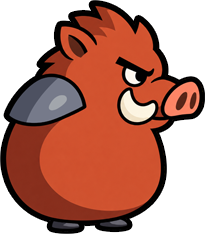
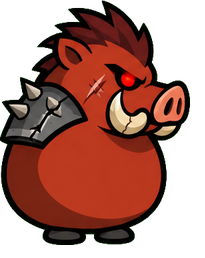
Vẽ lại 10 boss Boss Rush đáng sợ hơn theo concept
- Thân 10 boss mới (ChatGPT, giữ dáng tròn của rig + nét mảng màu): mắt sáng, nanh, sẹo, gai, vải rách
- Ghi đè đúng PNG thân cũ giữ GUID; canh theo thân cũ bằng tools/reskin/fit_boss_scary.py (khớp thân dưới + chân, nới khung đều 2 phía, cao tối đa 112%)
- Vũ khí / đạn / thanh máu không phải chỉnh; art cáo đỏ dùng chung cho DragonEnemy dungeon
- Concept so cũ/mới: tools/concept/boss_scary; prompt + ảnh gốc: ArtIncoming/_Concept/BossRush/gen_boss_scary

diff --git a/tools/concept/boss_scary/concept.html b/tools/concept/boss_scary/concept.html
@@ -1,0 +1,30 @@
+<!doctype html><html><head><meta charset="utf-8">
+<!-- Concept 10 boss Boss Rush đáng sợ hơn (giữ dáng rig + nét mảng màu). Ảnh ChatGPT: ArtIncoming/_Concept/BossRush/gen_boss_scary.
+     Chụp: tools/concept/render_concept.sh tools/concept/boss_scary/concept.html tools/concept/boss_scary/concept.png 1700 <cao> -->
+<base href="../../../2026DungeonRushUnity/Assets/_Assets/Art/">
+<style>
+@font-face{font-family:Asap;src:url(../../../2026DungeonRushUnity/Assets/_Assets/Fonts/Asap/Asap-SemiBold.ttf)}
+*{box-sizing:border-box;margin:0}
+body{background:#15141c;font-family:Asap,sans-serif;width:1700px;padding:24px;display:grid;grid-template-columns:repeat(5,1fr);gap:16px}
+.c{background:#3e3d4d;border-radius:16px;padding:14px 10px;display:flex;flex-direction:column;align-items:center;gap:8px}
+.nm{color:#fff;font-size:18px;text-align:center}
+.pair{display:flex;align-items:flex-end;gap:4px}
+.cell{display:flex;flex-direction:column;align-items:center;gap:4px}
+.cell img{height:150px;width:auto}
+.cell.new img{height:165px}
+.cell span{color:#b9b6cf;font:12px sans-serif}
+.cell.new span{color:#ffd35a}
+.arr{color:#ffd35a;font-size:26px;padding-bottom:70px}
+.ds{color:#cfcde0;font:13px sans-serif;text-align:center;line-height:1.35}
+</style></head><body>
+<div class="c"><div class="nm">#1 Dark Lich — gấu</div><div class="pair"><div class="cell"><img src="4_Characters/BossNew/BossRushDarkLich/Boss 1.png"><span>hiện tại</span></div><div class="arr">→</div><div class="cell new"><img src="../../../../ArtIncoming/_Concept/BossRush/gen_boss_scary/keyed/b01.png"><span>đề xuất</span></div></div><div class="ds">mắt đỏ rực, sẹo mắt, nanh, khăn rách</div></div>
+<div class="c"><div class="nm">#2 Black Dragon — sói nâu</div><div class="pair"><div class="cell"><img src="4_Characters/BossNew/BlackDragon/Boss 7-dragonBlack.png"><span>hiện tại</span></div><div class="arr">→</div><div class="cell new"><img src="../../../../ArtIncoming/_Concept/BossRush/gen_boss_scary/keyed/b02.png"><span>đề xuất</span></div></div><div class="ds">lông gần đen, nhe nanh, áo choàng rách</div></div>
+<div class="c"><div class="nm">#3 Green Dragon — sói xám</div><div class="pair"><div class="cell"><img src="4_Characters/BossNew/BossRushGreenDragon/Boss 8.png"><span>hiện tại</span></div><div class="arr">→</div><div class="cell new"><img src="../../../../ArtIncoming/_Concept/BossRush/gen_boss_scary/keyed/b03.png"><span>đề xuất</span></div></div><div class="ds">mắt xanh băng, áo nứt băng</div></div>
+<div class="c"><div class="nm">#4 Red Dragon — cáo đỏ</div><div class="pair"><div class="cell"><img src="4_Characters/BossNew/BossRushRedDragon/Boss 9.png"><span>hiện tại</span></div><div class="arr">→</div><div class="cell new"><img src="../../../../ArtIncoming/_Concept/BossRush/gen_boss_scary/keyed/b04.png"><span>đề xuất</span></div></div><div class="ds">cười gian, áo đỏ máu rách, lửa đuôi</div></div>
+<div class="c"><div class="nm">#5 Crimson Lich — heo rừng</div><div class="pair"><div class="cell"><img src="4_Characters/BossNew/BossRushCrimsonLich/Boss 2.png"><span>hiện tại</span></div><div class="arr">→</div><div class="cell new"><img src="../../../../ArtIncoming/_Concept/BossRush/gen_boss_scary/keyed/b05.png"><span>đề xuất</span></div></div><div class="ds">nanh nứt, bờm gai, giáp vai có gai</div></div>
+<div class="c"><div class="nm">#6 Elder Lich — thỏ</div><div class="pair"><div class="cell"><img src="4_Characters/BossNew/BossRushElderLich/Boss 10.png"><span>hiện tại</span></div><div class="arr">→</div><div class="cell new"><img src="../../../../ArtIncoming/_Concept/BossRush/gen_boss_scary/keyed/b06.png"><span>đề xuất</span></div></div><div class="ds">mắt xanh lạnh, tai sứt, mũ rách</div></div>
+<div class="c"><div class="nm">#7 Ogre King — hổ</div><div class="pair"><div class="cell"><img src="4_Characters/BossNew/BossRushOgreKing/Boss 3.png"><span>hiện tại</span></div><div class="arr">→</div><div class="cell new"><img src="../../../../ArtIncoming/_Concept/BossRush/gen_boss_scary/keyed/b07.png"><span>đề xuất</span></div></div><div class="ds">sọc đậm, sẹo mũi, giáp vai gai</div></div>
+<div class="c"><div class="nm">#8 Ogre Chieftain — linh cẩu</div><div class="pair"><div class="cell"><img src="4_Characters/BossNew/BossRushOgreChieftain/Boss 4.png"><span>hiện tại</span></div><div class="arr">→</div><div class="cell new"><img src="../../../../ArtIncoming/_Concept/BossRush/gen_boss_scary/keyed/b08.png"><span>đề xuất</span></div></div><div class="ds">cười điên, tạp dề bẩn</div></div>
+<div class="c"><div class="nm">#9 Green Hag — dê</div><div class="pair"><div class="cell"><img src="4_Characters/BossNew/BossRushGreenHag/Boss 5.png"><span>hiện tại</span></div><div class="arr">→</div><div class="cell new"><img src="../../../../ArtIncoming/_Concept/BossRush/gen_boss_scary/keyed/b09.png"><span>đề xuất</span></div></div><div class="ds">sừng dài nhọn, mắt cam, áo rách</div></div>
+<div class="c"><div class="nm">#10 Purple Hag — rùa</div><div class="pair"><div class="cell"><img src="4_Characters/BossNew/BossRushPurpleHag/Boss 6.png"><span>hiện tại</span></div><div class="arr">→</div><div class="cell new"><img src="../../../../ArtIncoming/_Concept/BossRush/gen_boss_scary/keyed/b10.png"><span>đề xuất</span></div></div><div class="ds">mai gai, mỏ quặp, mắt vàng</div></div>
+</body></html>

diff --git a/tools/reskin/fit_boss_scary.py b/tools/reskin/fit_boss_scary.py
@@ -1,0 +1,52 @@
+# Canh art boss "đáng sợ" (concept ArtIncoming/_Concept/BossRush/gen_boss_scary/keyed/bNN.png) theo sprite thân boss cũ:
+# khớp bề ngang thân dưới (trung vị dải 55-85% chiều cao), đáy chân + tâm chân; giữ khung ảnh cũ (pivot giữa),
+# tràn thì nới khung đều 2 phía. Dùng: python fit_boss_scary.py <out_dir>  → <out_dir>/<file cũ>.png + check_*.png
+import sys, os, numpy as np
+from PIL import Image
+ROOT = os.path.join(os.path.dirname(__file__), '..', '..')
+ART = os.path.join(ROOT, '2026DungeonRushUnity/Assets/_Assets/Art/4_Characters/BossNew')
+NEW = os.path.join(ROOT, 'ArtIncoming/_Concept/BossRush/gen_boss_scary/keyed')
+BOSSES = ['BossRushDarkLich/Boss 1.png', 'BlackDragon/Boss 7-dragonBlack.png', 'BossRushGreenDragon/Boss 8.png',
+          'BossRushRedDragon/Boss 9.png', 'BossRushCrimsonLich/Boss 2.png', 'BossRushElderLich/Boss 10.png',
+          'BossRushOgreKing/Boss 3.png', 'BossRushOgreChieftain/Boss 4.png', 'BossRushGreenHag/Boss 5.png',
+          'BossRushPurpleHag/Boss 6.png']
+
+MAX_HEIGHT = 1.12   # art mới không cao quá 112% thân cũ (rùa: mai mới cao hơn nhiều)
+
+def height(a):
+    ys = np.nonzero(a > 128)[0]
+    return ys.max() - ys.min() + 1
+
+def metrics(a):
+    ys, xs = np.nonzero(a > 128)
+    y0, y1 = ys.min(), ys.max()
+    h = y1 - y0 + 1
+    widths = []
+    for y in range(int(y0 + 0.55 * h), int(y0 + 0.85 * h)):
+        row = np.nonzero(a[y] > 128)[0]
+        if len(row): widths.append(row.max() - row.min() + 1)
+    feet = np.nonzero(a[int(y1 - 0.08 * h):y1 + 1] > 128)[1]
+    return np.median(widths), y1, (feet.min() + feet.max()) / 2.0
+
+out = sys.argv[1]
+os.makedirs(out, exist_ok=True)
+for i, rel in enumerate(BOSSES):
+    old = Image.open(os.path.join(ART, rel)).convert('RGBA')
+    new = Image.open(os.path.join(NEW, 'b%02d.png' % (i + 1))).convert('RGBA')
+    ow, ob, ofx = metrics(np.asarray(old)[..., 3])
+    nw, nb, nfx = metrics(np.asarray(new)[..., 3])
+    s = min(ow / nw, MAX_HEIGHT * height(np.asarray(old)[..., 3]) / height(np.asarray(new)[..., 3]))
+    new = new.resize((max(1, round(new.width * s)), max(1, round(new.height * s))), Image.LANCZOS)
+    nb, nfx = nb * s, nfx * s
+    x, y = round(ofx - nfx), round(ob - nb)               # góc trên-trái art mới trong khung cũ
+    W, H = old.size
+    pl = max(0, -x); pr = max(0, x + new.width - W); pt = max(0, -y); pb = max(0, y + new.height - H)
+    padx, pady = max(pl, pr), max(pt, pb)                 # nới đều 2 phía để tâm khung không đổi
+    canvas = Image.new('RGBA', (W + 2 * padx, H + 2 * pady), (0, 0, 0, 0))
+    canvas.alpha_composite(new, (x + padx, y + pady))
+    canvas.save(os.path.join(out, os.path.basename(rel)))
+    check = Image.new('RGBA', canvas.size, (62, 61, 77, 255))
+    ghost = old.copy(); ghost.putalpha(Image.fromarray((np.asarray(old)[..., 3] * 0.45).astype(np.uint8)))
+    check.alpha_composite(canvas); check.alpha_composite(ghost, (padx, pady))
+    check.save(os.path.join(out, 'check_%02d.png' % (i + 1)))
+    print('%-40s old %s -> %s scale %.2f pad %d,%d' % (rel, old.size, canvas.size, s, padx, pady))

diff --git a/zMemory/dungonrush-reskin-boss-rest.md b/zMemory/dungonrush-reskin-boss-rest.md
@@ -26,3 +26,5 @@ metadata:
 **How to apply:** đủ 10 ô bossPrefabs đã có hình mới ([[dungonrush-reskin-boss-dragon]], [[dungonrush-reskin-boss-dark-lich]]); chỉnh vị trí vũ khí thì sửa prefab từng boss, không chạy lại khuôn.
 
 **Dọn art 2026-11-03:** đã xoá prefab BossRushDragon + art/anim của nó (không có trong bossPrefabs), cả thư mục `Art/4_Characters/BossRush/` (33 PNG rig cũ), 18 SO Glove/Helmet của boss ở GearsEnemy (Lych/Ogre/Witch/Green+RedDragon — không prefab nào trỏ, code không nạp thư mục này). GIỮ: 13 WeaponData trong GearsEnemy (boss vẫn dùng làm đạn), Glove/Helmet + art của Dragon/Zombie/Cultist (quái thường). Đã commit vào main. Bổ sung sau: xoá nốt `Animations/Lich`, `Ogre`, `Witch` (4 override controller + 8 clip, không còn tham chiếu), cũng đã commit vào main.
+
+**2026-11-11 bản "đáng sợ hơn" (user duyệt concept tools/concept/boss_scary/concept.png):** cả 10 thân boss vẽ lại bằng ChatGPT (1 lưới 5×2, ref = bảng 10 boss cũ để giữ dáng tròn của rig), giữ nét mảng màu + viền dày, thêm mắt sáng/nanh/sẹo/gai/vải rách. Ghi đè đúng 10 PNG thân ở `Art/4_Characters/BossNew/*/Boss N.png` (giữ GUID, pivot giữa, PPU 100) bằng `tools/reskin/fit_boss_scary.py`: khớp bề ngang thân dưới + đáy/tâm chân, tràn khung thì nới đều 2 phía, chiều cao tối đa 112% thân cũ (rùa). Vũ khí/thanh máu KHÔNG phải chỉnh (chụp 10 prefab: tools/concept/boss_scary/unity_bosses.png). Art cáo đỏ (Boss 9) cũng là hình DragonEnemy dungeon → đổi theo. Prompt + ảnh gốc: `ArtIncoming/_Concept/BossRush/gen_boss_scary/` (bẫy: file ref phải tên `<id>.png`, sai tên thì Codex vẽ không ref → boss cao có tay chân, lệch rig). Chưa test Play.

diff --git a/zMemory/MEMORY.md b/zMemory/MEMORY.md
@@ -110,7 +110,7 @@
 - [Reskin Red Dragon → cáo cầu lửa](dungonrush-reskin-boss-dragon.md) — 2026-11-03 khuôn BlackDragon, test Play ô thật OK, đã commit; BossRushDragon.prefab thừa đã xoá
 
 - [Reskin boss Dark Lich → gấu búa](dungonrush-reskin-boss-dark-lich.md) — 2026-11-03 chép khuôn Crimson, Slam giữ Idle + FX ô 0; test Play ô thật OK, đã commit
-- [Reskin 6 boss cuối (đủ 10 boss)](dungonrush-reskin-boss-rest.md) — 2026-11-03 Elder/Green Dragon/2 Ogre/2 Hag, bảng số rig + công thức đo, đã dọn art cũ; test Play ô thật OK, đã commit
+- [Reskin 6 boss cuối (đủ 10 boss)](dungonrush-reskin-boss-rest.md) — 2026-11-03 Elder/Green Dragon/2 Ogre/2 Hag, bảng số rig + công thức đo, đã dọn art cũ; test Play ô thật OK, đã commit; 2026-11-11 thân 10 boss vẽ lại "đáng sợ hơn" (fit_boss_scary.py)
 - [Reskin DragonEnemy → cáo cầu lửa](dungonrush-reskin-dragon-enemy.md) — dùng chung art Red Dragon; đã commit
 - [Commit thẳng main](git-commit-direct-main.md) — không tách nhánh rồi merge; vẫn chỉ commit khi user bảo, không tự push
 - [PvP mùa + nhóm league](dungonrush-pvp-update-requests.md) — đã code + test Play emulator 2026-11-04, đã commit, đã deploy; cúp +1..+5 theo cúp đối thủ, thua không mất, 5 vé không ads, thưởng mùa ×1.2; GD ở GDD/PVP_DESIGN.md
